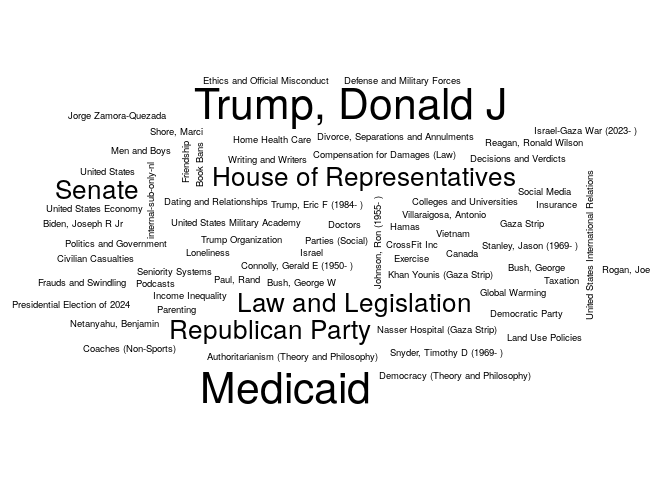
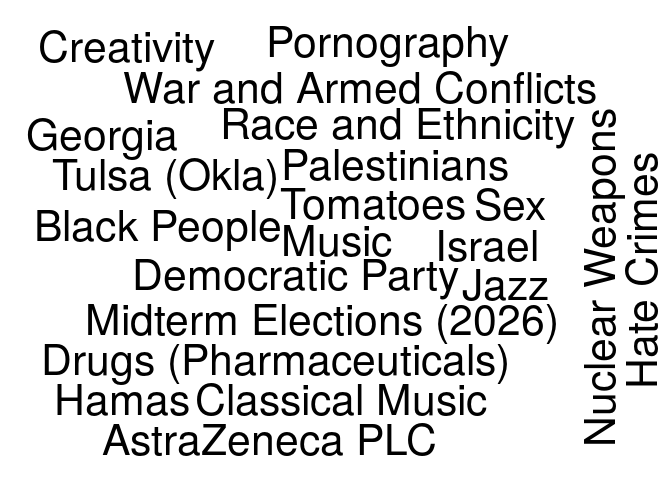
Updating the NYT report

Changed region(s): [[0.0, 0.0312, 1.0, 0.9688]]

diff --git a/03-nytimes/README.md b/03-nytimes/README.md
@@ -5,7 +5,7 @@ The following is an example of how to use the [NYTimes
 API](https://developer.nytimes.com/) to get a list of articles related
 to a particular term. Here we are searching articles that include the
 term `"health"`, and that were published up to seven days ago since
-2025-05-26.
+2025-06-02.
 
 ``` r
 # Preparing a function to use the GET method with the NYTimes API
@@ -83,25 +83,25 @@ colnames(tab) <- c("Keyword", "# Articles")
 knitr::kable(tab, row.names = FALSE)
 ```
 
-| Keyword                                  | \# Articles |
-|:-----------------------------------------|------------:|
-| United States Politics and Government    |          25 |
-| Medicaid                                 |          15 |
-| Trump, Donald J                          |          15 |
-| Health Insurance and Managed Care        |          10 |
-| House of Representatives                 |          10 |
-| Law and Legislation                      |          10 |
-| Republican Party                         |          10 |
-| Senate                                   |          10 |
-| Authoritarianism (Theory and Philosophy) |           5 |
-| Biden, Joseph R Jr                       |           5 |
-| Book Bans                                |           5 |
-| Bush, George                             |           5 |
-| Bush, George W                           |           5 |
-| Canada                                   |           5 |
-| Civilian Casualties                      |           5 |
-| Coaches (Non-Sports)                     |           5 |
-| Colleges and Universities                |           5 |
-| Compensation for Damages (Law)           |           5 |
-| Connolly, Gerald E (1950- )              |           5 |
-| CrossFit Inc                             |           5 |
+| Keyword                               | \# Articles |
+|:--------------------------------------|------------:|
+| Accordions                            |           5 |
+| Aint Nothin but a Polka Band          |           5 |
+| American Society of Clinical Oncology |           5 |
+| Appointments and Executive Changes    |           5 |
+| AstraZeneca PLC                       |           5 |
+| Black People                          |           5 |
+| Breast Cancer                         |           5 |
+| Campaign Finance                      |           5 |
+| Classical Music                       |           5 |
+| Clinical Trials                       |           5 |
+| Creativity                            |           5 |
+| Deaths (Fatalities)                   |           5 |
+| Deaths (Obituaries)                   |           5 |
+| Democratic Party                      |           5 |
+| Demonstrations, Protests and Riots    |           5 |
+| Drugs (Pharmaceuticals)               |           5 |
+| Elections, Governors                  |           5 |
+| Food and Drug Administration          |           5 |
+| Food Contamination and Poisoning      |           5 |
+| Georgia                               |           5 |
